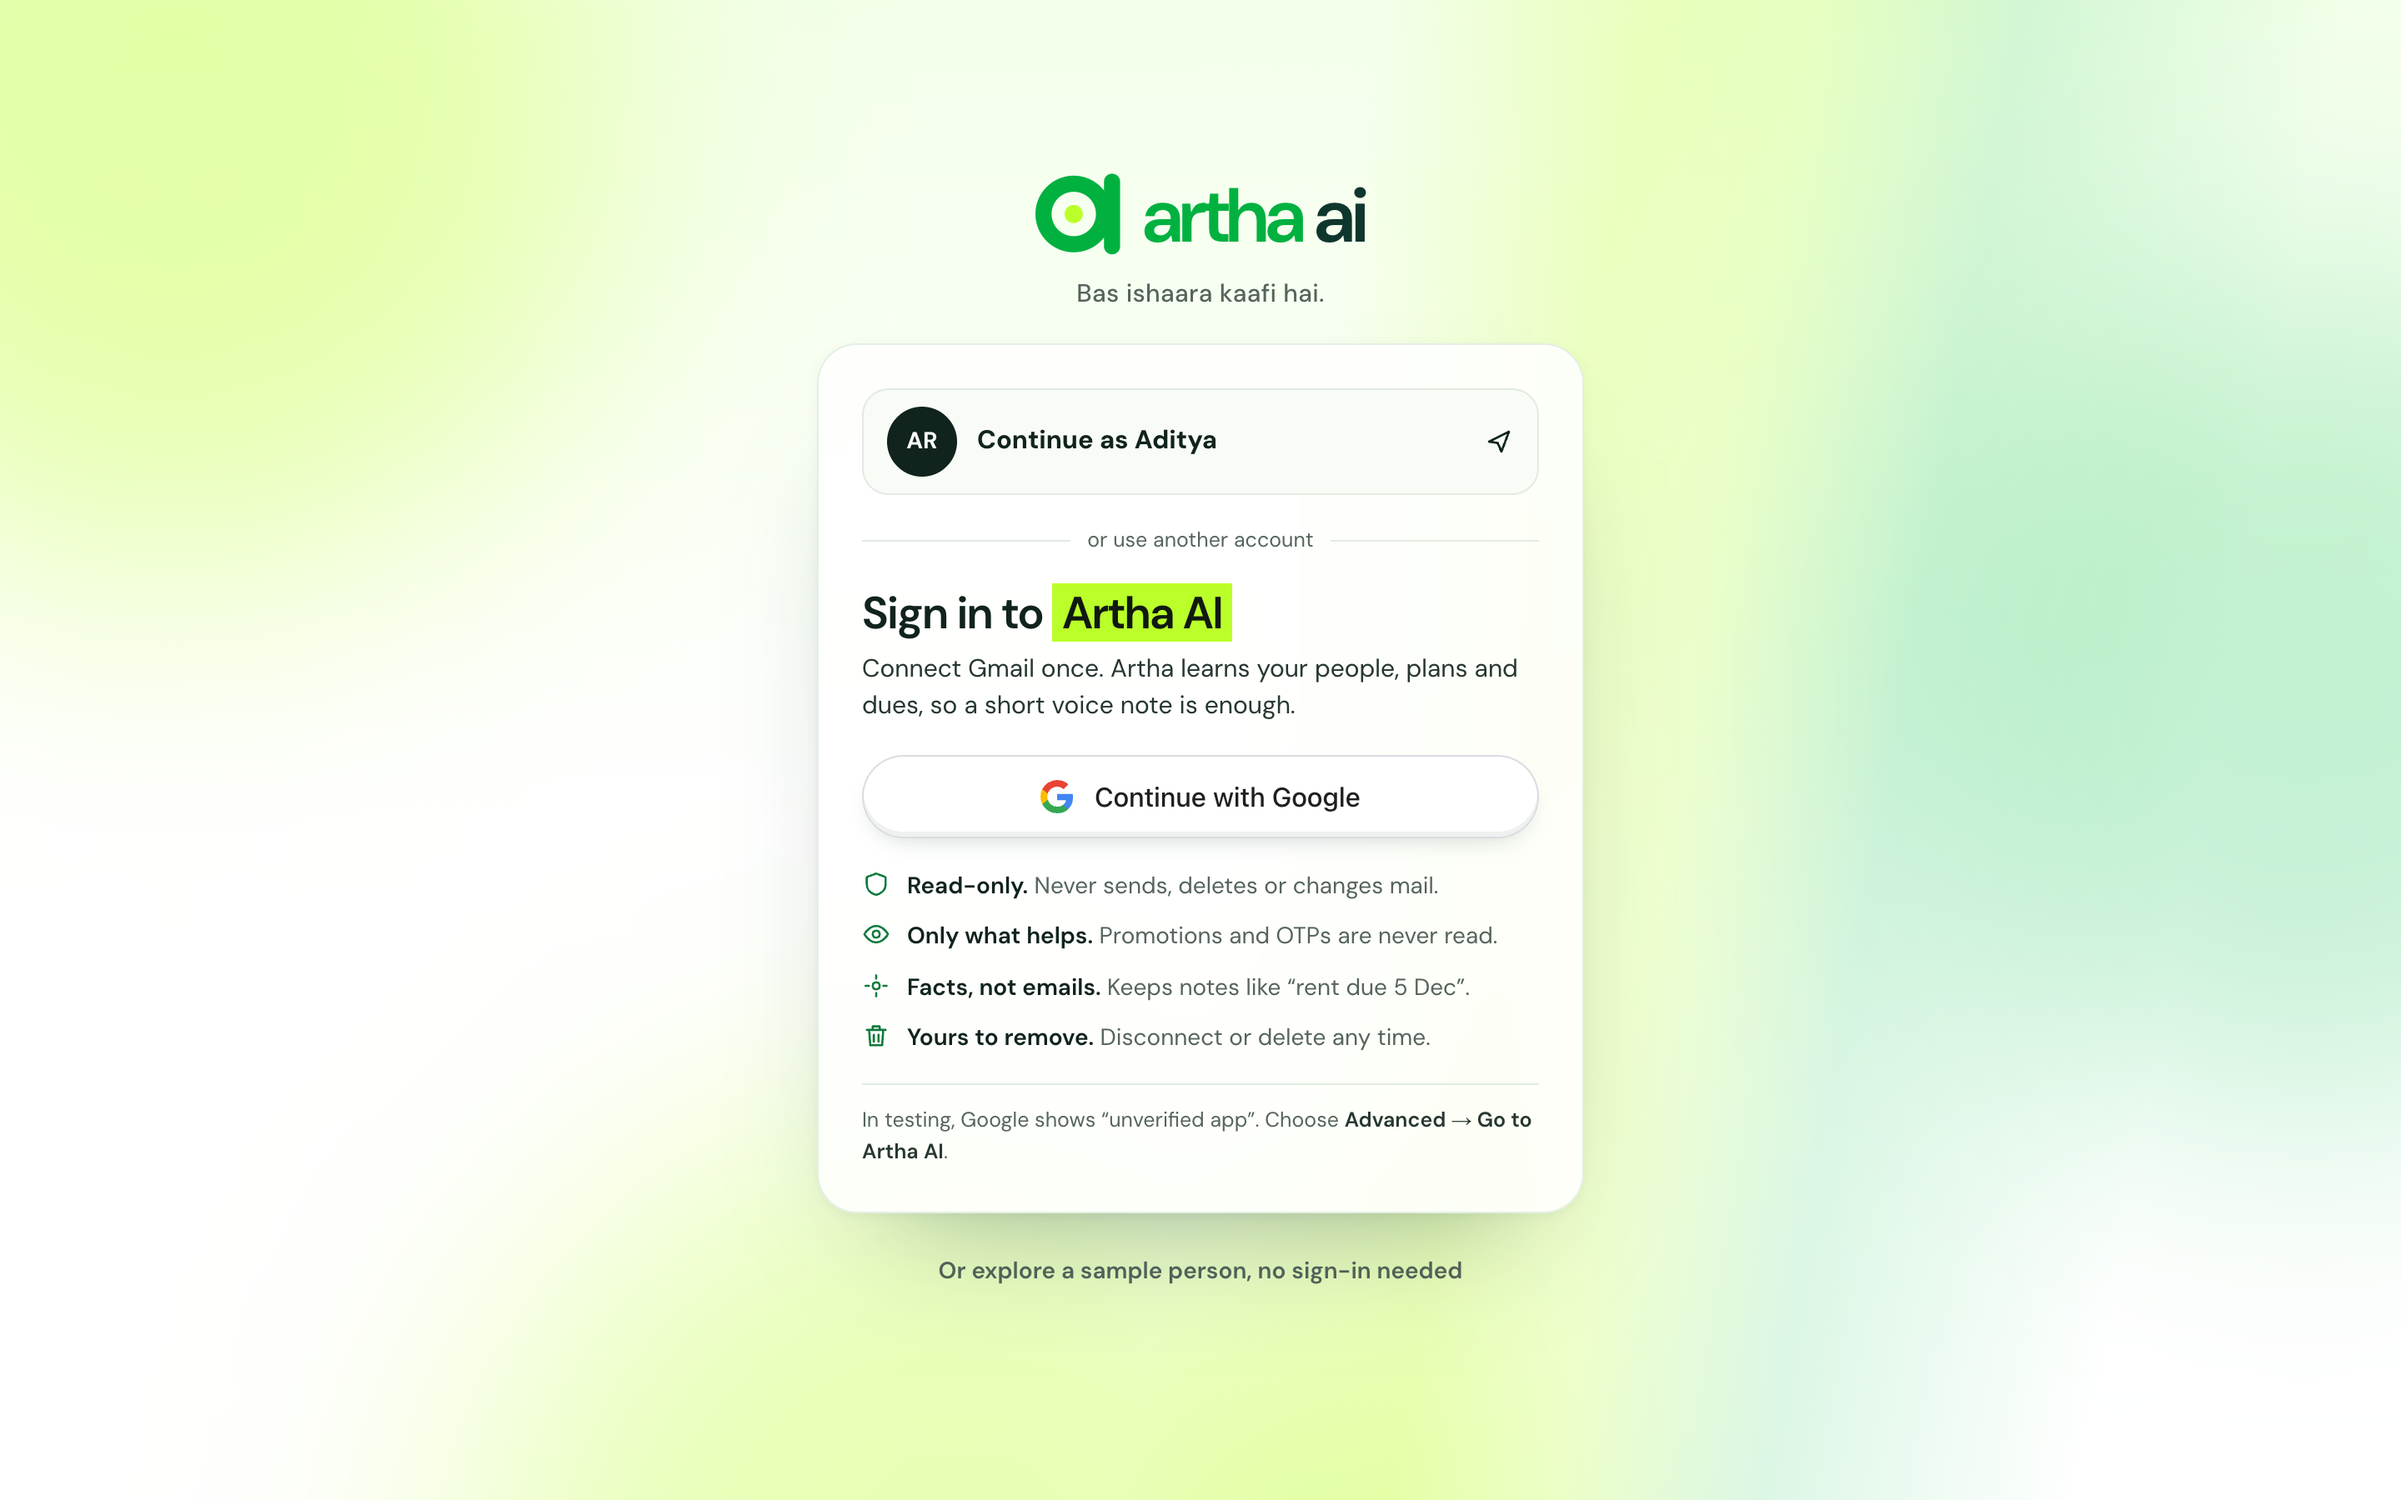
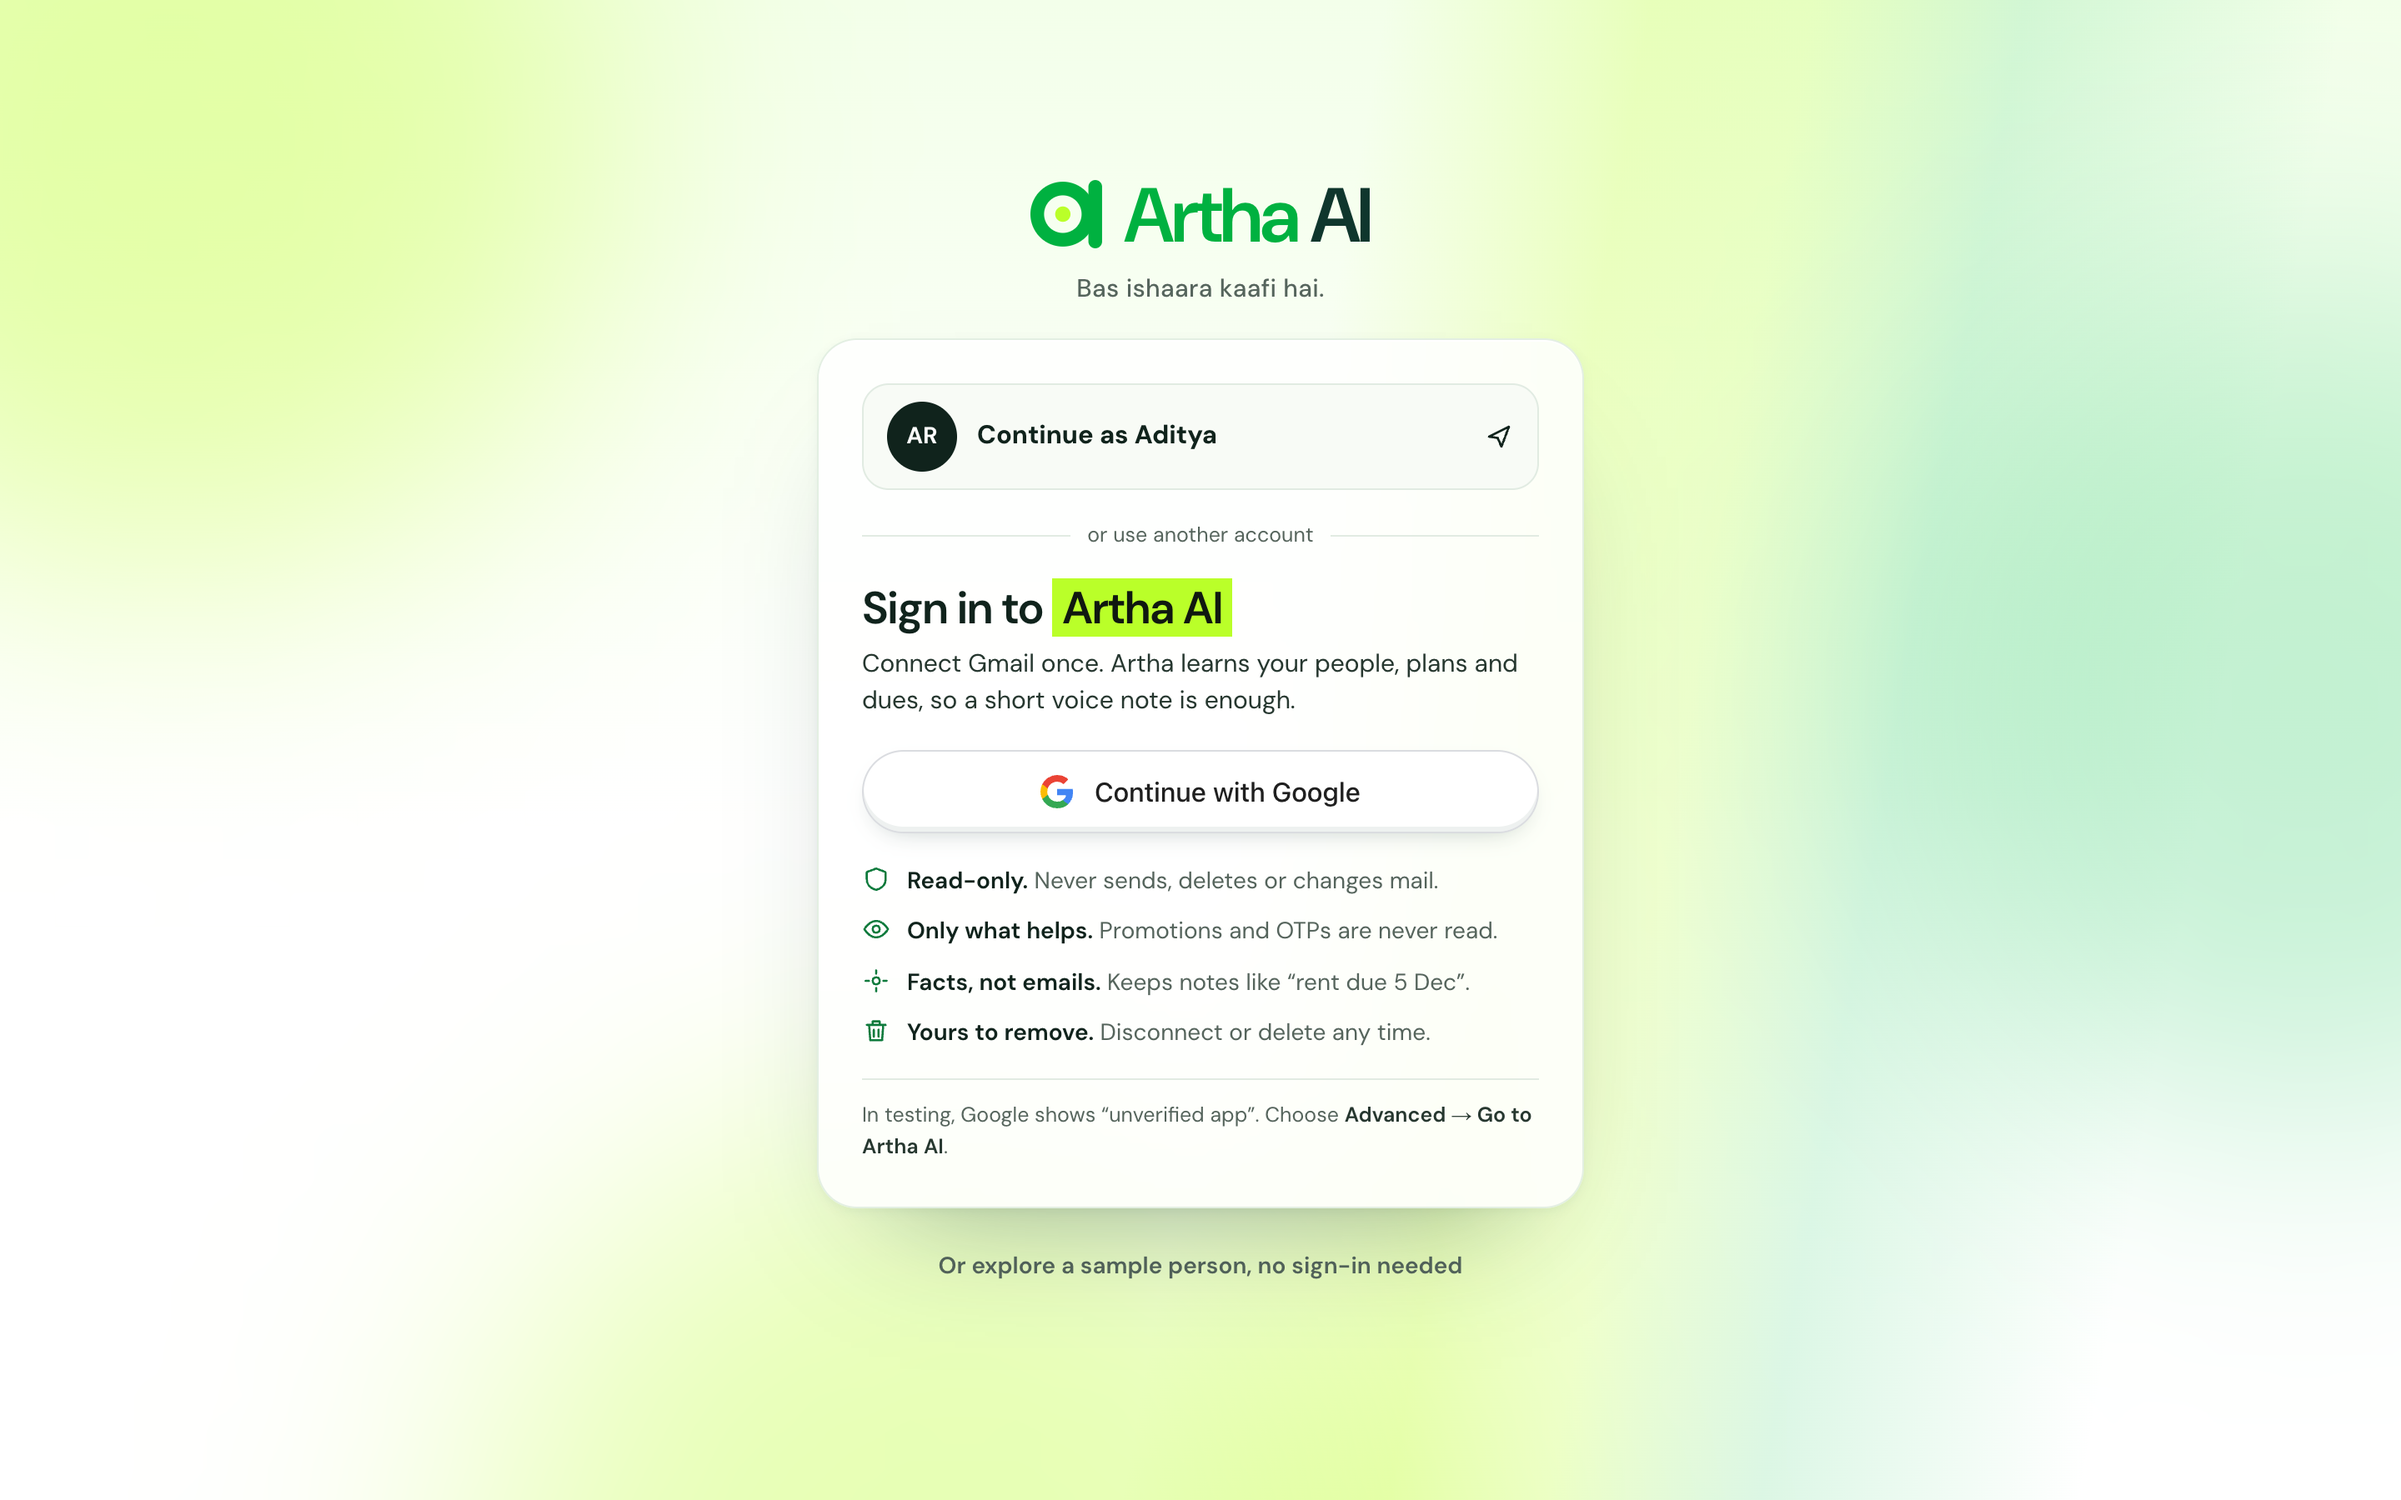
Wordmark: Artha AI

diff --git a/web/src/App.tsx b/web/src/App.tsx
@@ -218,7 +218,7 @@ function Welcome({ me, samples, onPick }: { me: PersonaInfo | null; samples: Per
     <div className="welcome" role="dialog" aria-label="Start with Artha">
       <div className="w-aurora" aria-hidden="true"><i /><i /><i /></div>
       <div className="welcome-in" ref={ref}>
-        <header className="w-brand2"><div className="w-lockup"><img src="/icon.svg" alt="" className="w-logo" /><h1 className="w-word">artha <i>ai</i></h1></div><p>Bas ishaara kaafi hai.</p></header>
+        <header className="w-brand2"><div className="w-lockup"><img src="/icon.svg" alt="" className="w-logo" /><h1 className="w-word">Artha <i>AI</i></h1></div><p>Bas ishaara kaafi hai.</p></header>
         <section className="w-sign">
           {me && (<>
             <button className="w-me" onClick={() => onPick(me.id)}><span className="av lg ink">{me.avatar}</span><span><b>Continue as {me.name.split(' ')[0]}</b><small>{me.email}</small></span><I n="send" /></button>
@@ -580,7 +580,7 @@ export default function App() {
     <div className="app">
       {intro && <Intro onDone={endIntro} />}
       <header className="top">
-        <div className="brand"><img className="logo" src="/icon.svg" alt="" /><b className="wordmark">artha <i>ai</i></b></div>
+        <div className="brand"><img className="logo" src="/icon.svg" alt="" /><b className="wordmark">Artha <i>AI</i></b></div>
         <nav className="topnav" aria-label="Views">
           {([['artha', 'Artha'], ['chats', 'Chats'], ['results', 'Results'], ['about', 'About']] as const).map(([t, l]) => (
             <button key={t} className={t === 'chats' ? 'only-mid' : ''} aria-current={tab === t || (t === 'artha' && tab === 'memory') ? 'page' : undefined} onClick={() => go(t)}>{l}</button>))}

diff --git a/web/src/styles.css b/web/src/styles.css
@@ -546,7 +546,7 @@ a.btn { text-decoration: none; }
 .w-brand2 p { color: var(--muted); font-size: 15px; font-weight: 500; letter-spacing: .01em; }
 .w-lockup { display: flex; align-items: center; gap: 12px; }
 .w-logo { width: 44px; height: 44px; }
-.w-word { margin: 0; font-size: 46px; font-weight: 600; letter-spacing: -.045em; line-height: 1; color: var(--brand); }
+.w-word { margin: 0; font-size: 46px; font-weight: 600; letter-spacing: -.035em; line-height: 1; color: var(--brand); }
 .w-word i { font-style: normal; color: var(--forest); }
 .w-sign { background: rgba(255, 255, 255, .86); border: 1px solid #e3efe2; backdrop-filter: blur(16px); -webkit-backdrop-filter: blur(16px);
   box-shadow: 0 1px 0 #fff inset, 0 40px 80px -44px rgba(15, 54, 45, .45), 0 2px 6px rgba(15, 54, 45, .05); }

diff --git a/docs/brand/logo-options.html b/docs/brand/logo-options.html
@@ -71,7 +71,7 @@ document.getElementById('grid').innerHTML = marks.map(([name, note, rec, fn], i)
   <div class="card${rec ? ' rec' : ''}">
     <div class="top"><span><b>${i + 1}</b> · ${name}</span>${rec ? '<span class="tag">Pick</span>' : ''}</div>
     <div class="hero">${svg(fn, G)}</div>
-    <div class="lock">${svg(fn, G)}<span class="word">artha <i>ai</i></span></div>
+    <div class="lock">${svg(fn, G)}<span class="word">Artha <i>AI</i></span></div>
     <div class="row"><div class="dark">${svg(fn, '#BAFF29')}</div><span class="s24">${svg(fn, G)}</span><span class="s16">${svg(fn, G)}</span></div>
     <p class="note">${note}</p>
   </div>`).join('');
